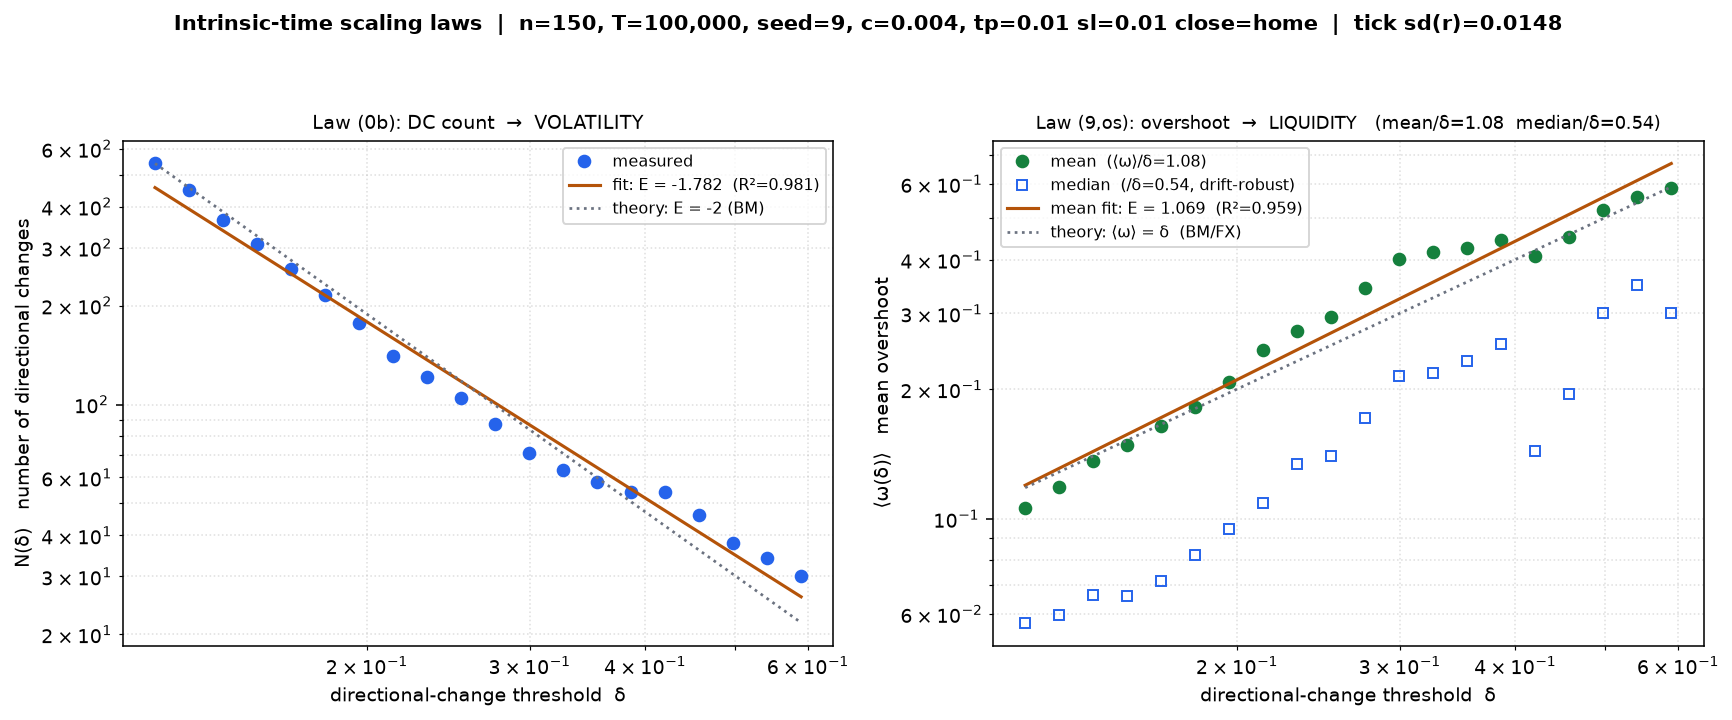
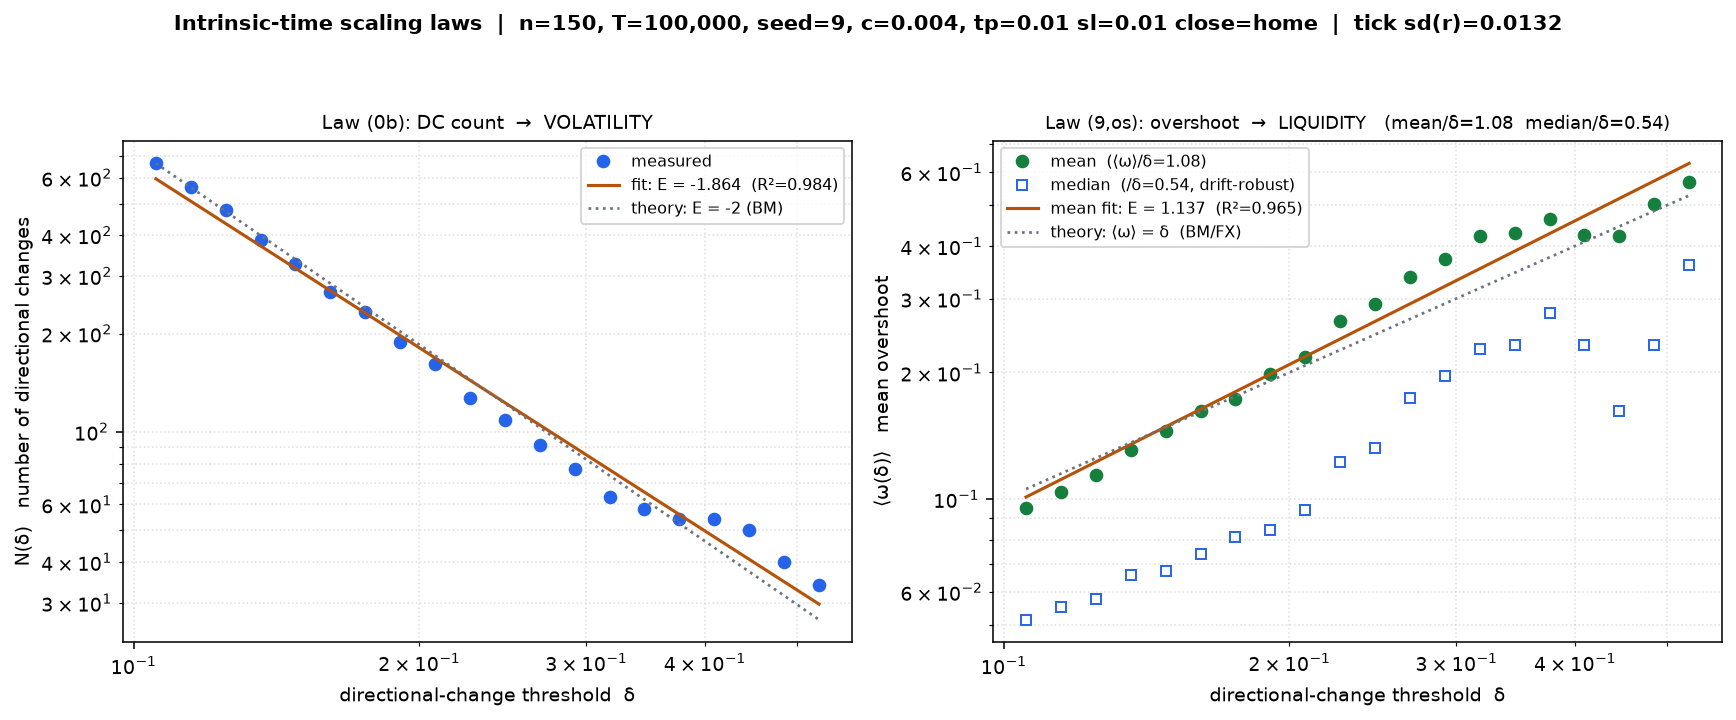
scaling law fix and default

diff --git a/scaling_law.py b/scaling_law.py
@@ -106,7 +106,14 @@ def main() -> None:
     n_t = len(prices)
     r1 = np.diff(prices) / prices[:-1]
     r_fin = r1[np.isfinite(r1)]
-    r_nz = r_fin[r_fin != 0]
+    # SIGNIFICANCE FLOOR (the third robust-statistics casualty): in dense
+    # markets (n>=2000, every tick clears) many prints land at essentially
+    # unchanged prices, producing float-dust log-returns ~1e-15 that are
+    # NONZERO and can swamp the median -> MAD ~ machine epsilon -> the delta
+    # grid collapses to 1e-14 and every tick is a "DC event". A return below
+    # R_EPS is bookkeeping noise, not a price move.
+    R_EPS = 1e-9
+    r_nz = r_fin[np.abs(r_fin) > R_EPS]
     # ROBUST scale (par 4.10 lesson, second instrument casualty): a single flash
     # event (regime switch) inflates np.std by orders of magnitude and pushes
     # the whole delta grid above the feed's typical volatility -> "0 usable

diff --git a/experiments/exp_exponent_scatter.py b/experiments/exp_exponent_scatter.py
@@ -59,7 +59,7 @@ def engine_row(seed: int) -> dict:
     sim = Simulation(cfg, recorder=Recorder(), run_checks=False).run()
     p = np.array(sim.recorder.series("p_int"))
     y = np.log(p)
-    r = np.diff(y); r_nz = r[r != 0]
+    r = np.diff(y); r_nz = r[np.abs(r) > 1e-9]   # significance floor: float-dust prints are not moves
     sd = float(1.4826 * np.median(np.abs(r_nz - np.median(r_nz))))   # flash-robust (par 4.10)
     if sd == 0.0:
         sd = float(r_nz.std())
